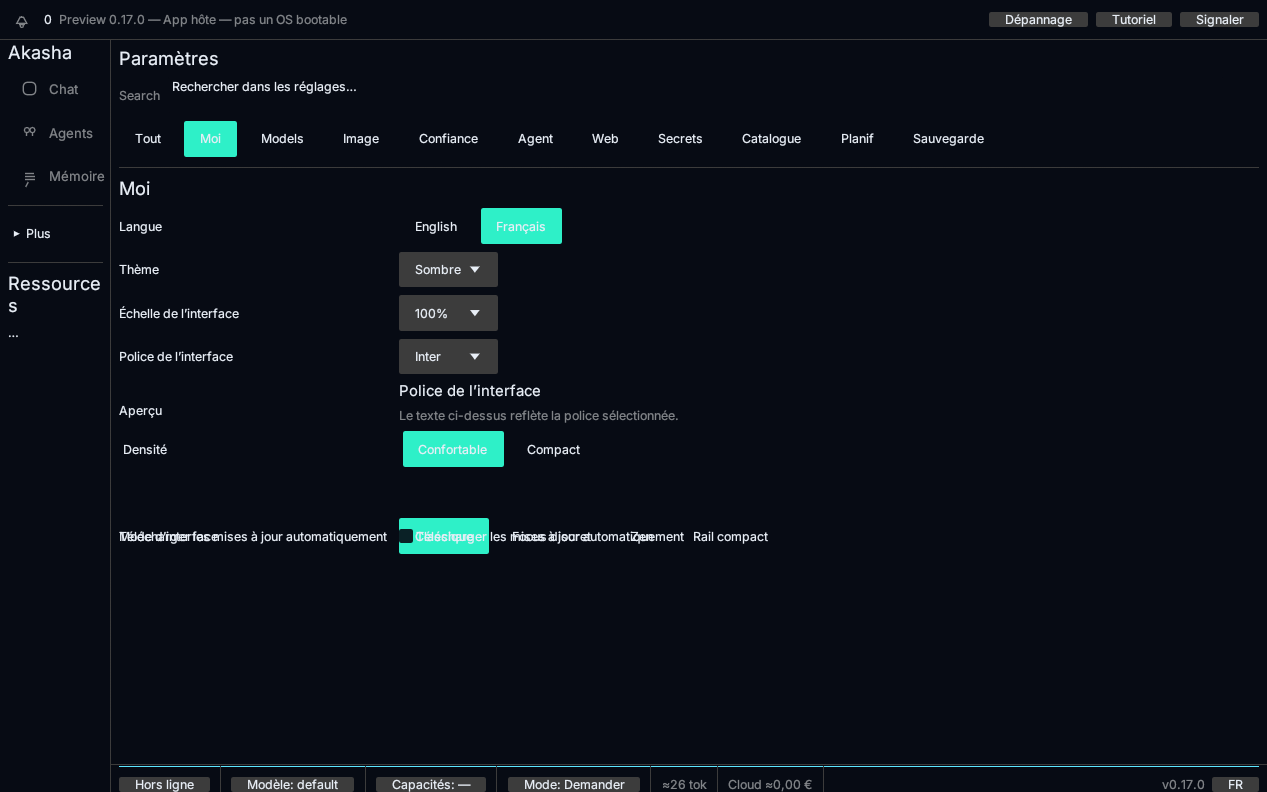
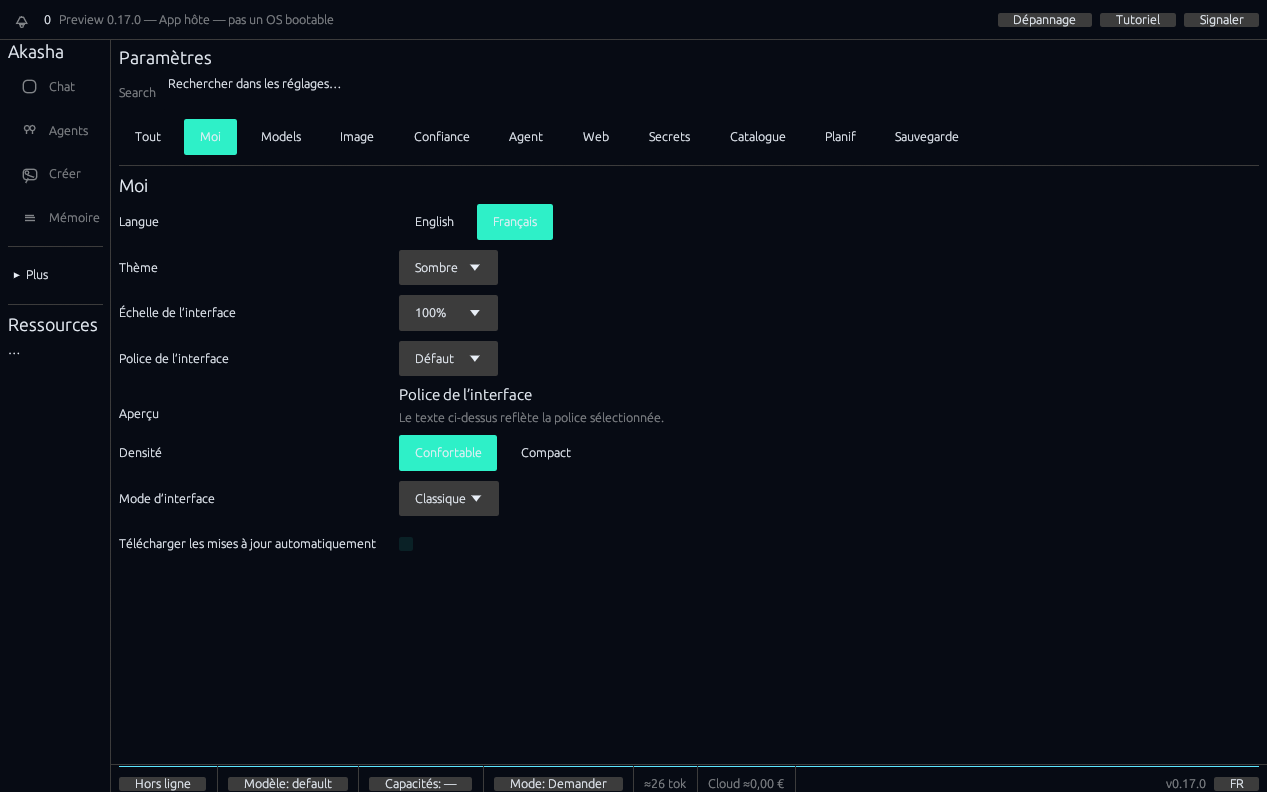
Fix designer jails: Settings Me layout and rail Créer screenshot
- Settings Me: presentation mode ComboBox, checkbox label-only row,
  remove grid add_space; no overlap between mode/auto-updates controls
- Font picker human names: Défaut/Inter/Source Sans/Atkinson
- Screenshot harness: seed create module for rail shot; reset default
  font before shot 02
- Recapture docs/ui-pass-screenshots/01–03 PNGs

diff --git a/crates/aos-ui-egui/src/ui_settings.rs b/crates/aos-ui-egui/src/ui_settings.rs
@@ -160,7 +160,7 @@ impl UiApp {
             ui.heading(t.settings_me);
             egui::Grid::new("settings_me")
                 .num_columns(2)
-                .spacing([12.0, 8.0])
+                .spacing([12.0, 10.0])
                 .min_col_width(label_w)
                 .show(ui, |ui| {
                     ui.label(t.language);
@@ -323,7 +323,6 @@ impl UiApp {
                         ui.weak(t.settings_ui_font_preview_hint);
                     });
                     ui.end_row();
-                    ui.add_space(4.0);
 
                     ui.label(t.settings_density);
                     ui.horizontal(|ui| {
@@ -344,30 +343,38 @@ impl UiApp {
                     ui.end_row();
 
                     ui.label(t.settings_presentation);
-                    ui.horizontal_wrapped(|ui| {
-                        for (mode, label) in [
-                            (UiPresentationMode::Classic, t.settings_presentation_classic),
-                            (UiPresentationMode::Focus, t.settings_presentation_focus),
-                            (UiPresentationMode::Zen, t.settings_presentation_zen),
-                            (UiPresentationMode::Rail, t.settings_presentation_rail),
-                        ] {
-                            if ui
-                                .selectable_label(self.prefs.ui_presentation == mode, label)
-                                .on_hover_text(t.settings_presentation_hint)
-                                .clicked()
-                            {
-                                self.prefs.ui_presentation = mode;
-                                save_preferences(&self.prefs);
-                                self.status = t.settings_saved.into();
+                    let presentation_label = match self.prefs.ui_presentation {
+                        UiPresentationMode::Classic => t.settings_presentation_classic,
+                        UiPresentationMode::Focus => t.settings_presentation_focus,
+                        UiPresentationMode::Zen => t.settings_presentation_zen,
+                        UiPresentationMode::Rail => t.settings_presentation_rail,
+                    };
+                    egui::ComboBox::from_id_salt("prefs_presentation")
+                        .selected_text(presentation_label)
+                        .show_ui(ui, |ui| {
+                            for (mode, label) in [
+                                (UiPresentationMode::Classic, t.settings_presentation_classic),
+                                (UiPresentationMode::Focus, t.settings_presentation_focus),
+                                (UiPresentationMode::Zen, t.settings_presentation_zen),
+                                (UiPresentationMode::Rail, t.settings_presentation_rail),
+                            ] {
+                                if ui
+                                    .selectable_label(self.prefs.ui_presentation == mode, label)
+                                    .on_hover_text(t.settings_presentation_hint)
+                                    .clicked()
+                                {
+                                    self.prefs.ui_presentation = mode;
+                                    save_preferences(&self.prefs);
+                                    self.status = t.settings_saved.into();
+                                }
                             }
-                        }
-                    });
+                        });
                     ui.end_row();
 
                     ui.label(t.settings_auto_download_updates);
                     let mut auto_upd = self.prefs.auto_download_updates;
                     if ui
-                        .checkbox(&mut auto_upd, t.settings_auto_download_updates)
+                        .checkbox(&mut auto_upd, "")
                         .on_hover_text(t.settings_auto_download_updates_hint)
                         .changed()
                     {

diff --git a/crates/aos-ui-egui/src/ui_screenshot.rs b/crates/aos-ui-egui/src/ui_screenshot.rs
@@ -7,8 +7,26 @@
 
 use crate::prefs::save_preferences;
 use crate::{Tab, UiApp};
+use aos_proto::create_contract::MODULE_NAME;
+use aos_proto::ModuleInfo;
 use eframe::egui::{self, ColorImage, Event, UserData};
 use std::path::{Path, PathBuf};
+
+/// Ensure designer rail shots include primary tabs that depend on module list RPC.
+pub fn seed_screenshot_modules(app: &mut UiApp) {
+    if app.create_module_installed() {
+        return;
+    }
+    app.settings_ui.installed_modules.push(ModuleInfo {
+        name: MODULE_NAME.into(),
+        version: "0.1.0".into(),
+        granted_caps: Vec::new(),
+        tools: Vec::new(),
+        quarantined: false,
+        ui_mode: Some("declarative_ui".into()),
+        ui_title: None,
+    });
+}
 
 pub fn screenshot_dir_from_env() -> Option<PathBuf> {
     std::env::var("AOS_UI_SCREENSHOT_DIR")
@@ -74,6 +92,7 @@ impl UiScreenshotHarness {
 
         match self.step {
             0 => {
+                seed_screenshot_modules(app);
                 app.tab = Tab::Chat;
                 self.request(ctx, "01-rail-painted-icons-fr");
                 self.step = 1;
@@ -83,6 +102,8 @@ impl UiScreenshotHarness {
                 app.tab = Tab::Settings;
                 app.settings_ui.section = "me".into();
                 app.prefs.language = "fr".into();
+                app.prefs.ui_font = "default".into();
+                save_preferences(&app.prefs);
                 self.request(ctx, "02-settings-police-interface-default-fr");
                 self.step = 2;
                 self.settle_left = 3;

diff --git a/crates/aos-ui-egui/src/fonts.rs b/crates/aos-ui-egui/src/fonts.rs
@@ -4,10 +4,10 @@ use eframe::egui::{self, FontData, FontDefinitions, FontFamily};
 
 /// English / French labels for each [`crate::prefs::UI_FONT_IDS`] entry.
 pub const UI_FONT_LABELS: [(&str, &str); 4] = [
-    ("System default", "Par défaut"),
+    ("Default", "Défaut"),
     ("Inter", "Inter"),
-    ("Source Sans 3", "Source Sans 3"),
-    ("Atkinson Hyperlegible", "Atkinson Hyperlegible"),
+    ("Source Sans", "Source Sans"),
+    ("Atkinson", "Atkinson"),
 ];
 
 pub fn ui_font_label(id: &str, fr: bool) -> &'static str {
@@ -78,8 +78,8 @@ mod tests {
 
     #[test]
     fn ui_font_label_respects_language() {
-        assert_eq!(ui_font_label("default", false), "System default");
-        assert_eq!(ui_font_label("default", true), "Par défaut");
+        assert_eq!(ui_font_label("default", false), "Default");
+        assert_eq!(ui_font_label("default", true), "Défaut");
         assert_eq!(ui_font_label("inter", true), "Inter");
     }
 }
